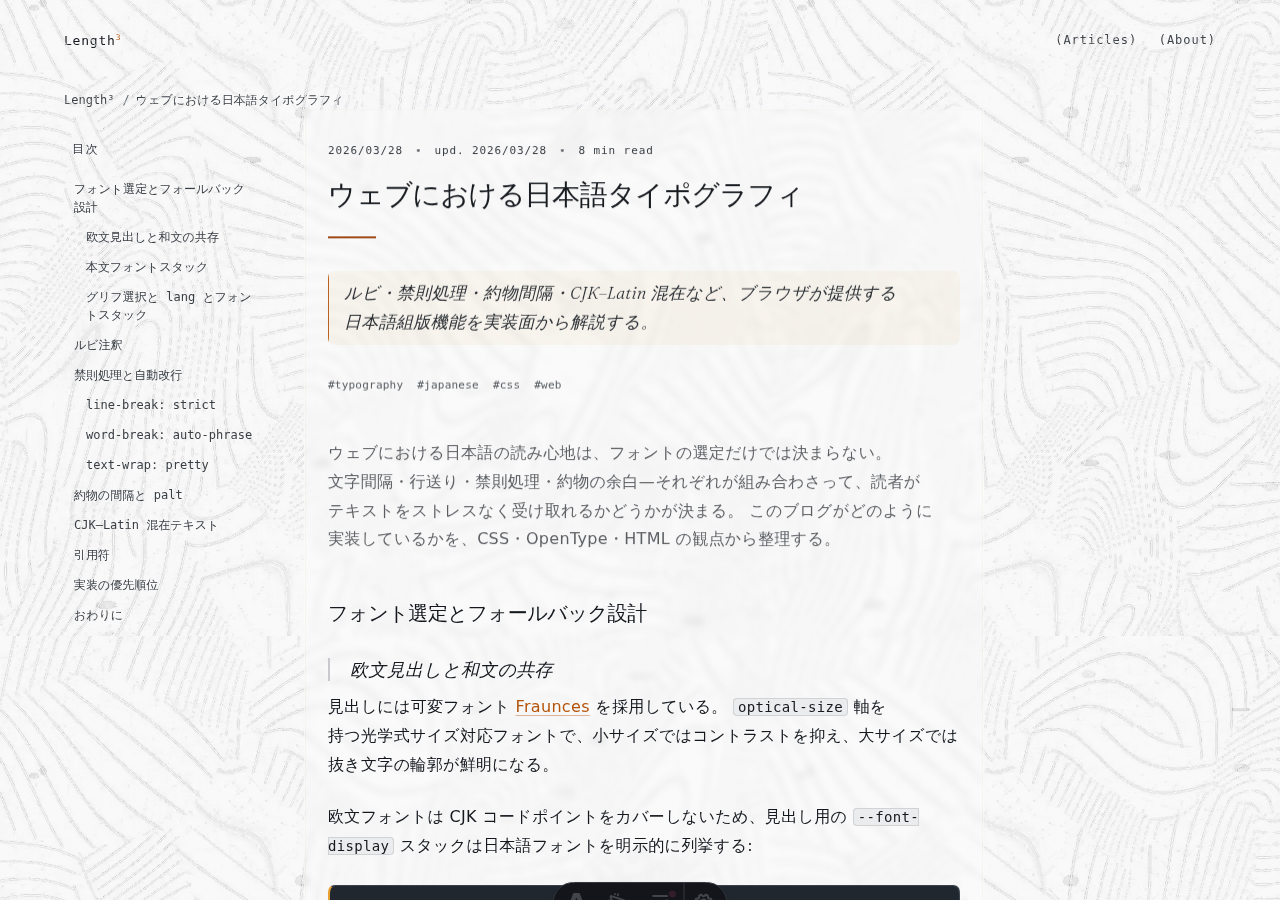
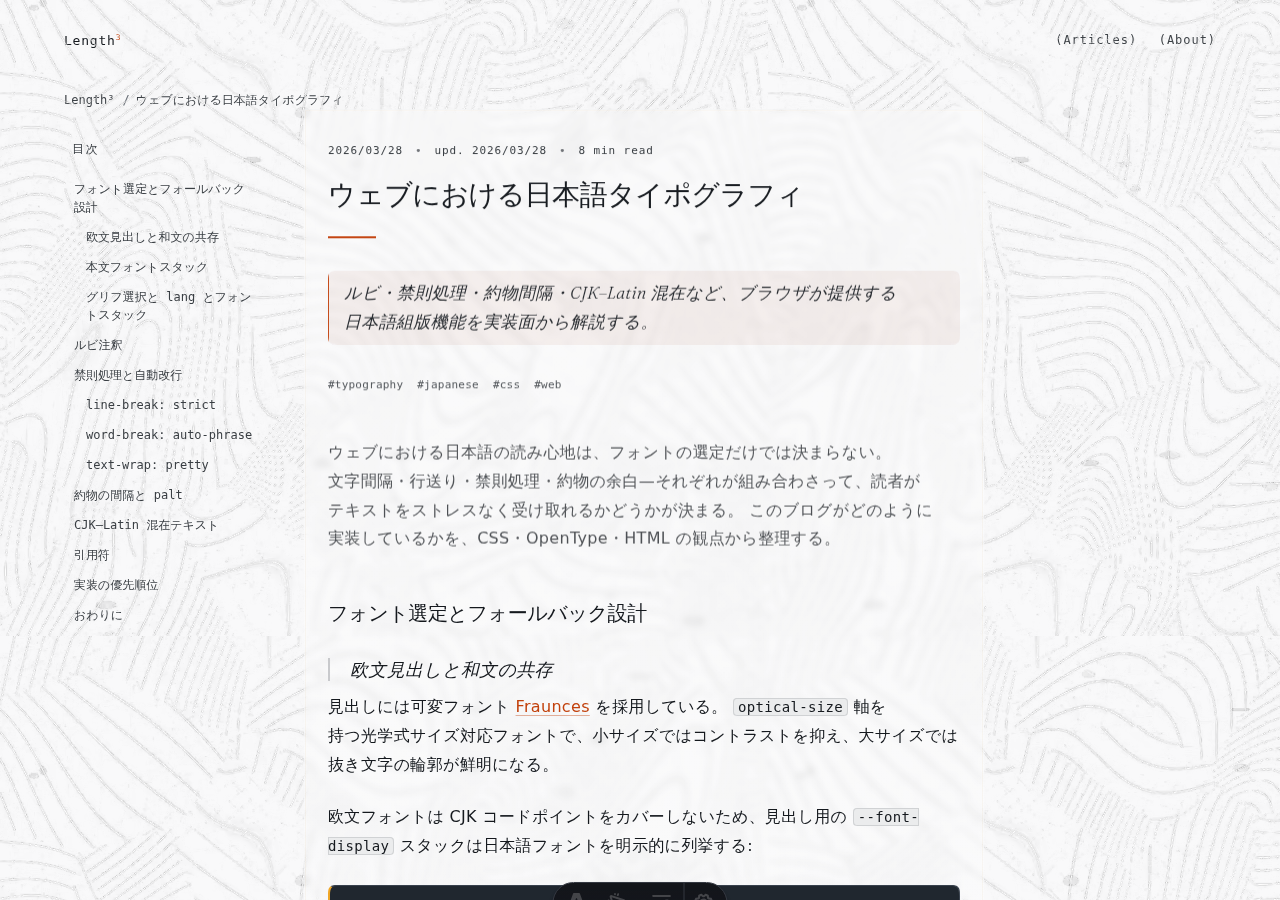
Take the cool below naming, and put the crispness in the amber
Two more rounds of "still too cool" moved the target: the tint should not be
identifiable as blue at all. Red-to-blue is 1 point on BG (#f9f9fa) and 3 on
BG-2 (#f0f1f3). The page reads as white; beside the warm paper it replaced,
all you can say is that the other one is warmer.

The background was never the whole of it. Rules, borders, panel edges, and
the secondary type come from the same family, and the article list draws one
rule per entry — ten hairlines at the type's saturation are an area of
colour, not a line. Rule, the surface strokes, Ink-2 and Ink-3 all lose
saturation at unchanged lightness, so the page cools as a whole instead of
leaving blue lines on white paper.

With the colour out of the ground, the accent had to answer for it. A
background losing saturation takes the accent's apparent strength with it —
against a neutral page an accent reads as a slightly darker patch rather
than a point of colour. The amber goes to full saturation and 28° → 22°,
nearly opposite the 212° everything else is drawn in. Red-weighted luminance
is lower at the same chroma, so the crisper colour is also the stronger one:
4.9:1 on BG, 4.6:1 on BG-2. That last number closes a gap this palette has
carried since the accent was written down — amber-text on BG-2 measured
4.3:1 and failed AA in table headers and selected search rows. It clears by
hue, not by darkening.

And the warm collapses to one value on paper. There were three — text,
[…]

Changed region(s): [[0.25, 0.4978, 0.6875, 0.6222], [0.6875, 0.5289, 0.7188, 0.56]]

diff --git a/src/styles/tokens.css b/src/styles/tokens.css
@@ -1,11 +1,27 @@
 /* ─── Design Tokens ─────────────────────────────────────────── */
 :root {
   /* Colors — original palette with mineral accents */
-  --amber: #d4820a;
-  --amber-deep: #9a4312;
-  --amber-text: #b45309;
-  --amber-lt: #e8a030;
-  --amber-tint: rgba(212, 130, 10, 0.06); /* amber @ 6% — lead bg */
+  /* 地から色を抜いたぶん、暖色は上げる。地が寒色へ寄るほど琥珀の相対的な
+     強さは落ちる（背景の彩度が下がると、その上の色は「浮いた点」ではなく
+     「少し濃い所」に見える）。彩度を上限まで上げ、色相を 28° → 22° と
+     赤寄りにした。地の 212° に対してほぼ真向かいで、同じ明度でも遠くに
+     見える。輝度は赤寄りのほうが低いので、コントラストまで上がる:
+     --amber-text は紙で 4.9:1、--bg-2 の上でも 4.6:1。以前の #b45309 は
+     --bg-2 の上で 4.3:1 しかなく、表ヘッダと選択行のリンクだけが AA を
+     落としていた。それがここで解ける。 */
+  /* 紙の上に置く暖色はこの 1 色。以前は「文字用の #b45309」「罫と目盛り用の
+     深い #9a4312」「印用の明るい #d4820a」と 3 段あったが、地の彩度を落とした
+     いま、同じ役の色が 3 つあると濃淡がばらついて見えるだけだった。虫眼鏡と
+     日付と罫が同じ 1 色で揃う。 */
+  --amber-text: #c2410c;
+  /* 灯った状態のためだけの明るいほう。現状の使い道はホバー 1 箇所。 */
+  --amber: #ea580c;
+  /* 暗い面（コード）の上に置く暖色。紙の上の琥珀は面に沈むので別値が要る。 */
+  --amber-lt: #f0a626;
+  /* リードの地。琥珀をそのまま 6% で敷くと、彩度を上げたあとでは薄桃に
+     見える。面に敷くぶんだけは深く暗い側の値を使い、色ではなく温度だけを
+     残す。 */
+  --amber-tint: rgba(154, 52, 18, 0.06);
 
   /* ─ 温度 ─────────────────────────────────────────────────────
      地（--bg とテクスチャ）と琥珀だけが暖色。その上に描かれるものは
@@ -62,7 +78,7 @@
   /* Surfaces & shadows */
   --overlay-bg: rgba(21, 25, 30, 0.6); /* --ink @ 60% */
   --shadow-card: 0 0.5rem 2rem rgba(0, 0, 0, 0.15);
-  --focus-halo: rgba(180, 83, 9, 0.14);
+  --focus-halo: rgba(194, 65, 12, 0.16);
 
   /* Typography — font-size scale */
   --font-ui-xs: 0.6875rem;   /* 11px — smallest UI text: shortcuts and compact UI labels */

diff --git a/src/styles/typography.css b/src/styles/typography.css
@@ -103,9 +103,9 @@
 }
 
 .prose a {
-  color: var(--amber-text); /* SC 1.4.3: 4.73:1 on --bg */
+  color: var(--amber-text); /* SC 1.4.3: 4.92:1 on --bg */
   text-decoration: underline;
-  text-decoration-color: rgba(180, 83, 9, 0.4); /* amber-text @ 40% — 常時視認可能 */
+  text-decoration-color: rgba(194, 65, 12, 0.4); /* amber-text @ 40% — 常時視認可能 */
   text-decoration-thickness: 0.0625rem;
   text-underline-offset: 0.2em;
   transition: color var(--transition-fast), text-decoration-color var(--transition-fast);
@@ -301,7 +301,7 @@
 }
 
 .prose ul > li::marker {
-  color: var(--amber-text); /* SC 1.4.11: UI marker needs 3:1; --amber-text gives 4.73:1 */
+  color: var(--amber-text); /* SC 1.4.11: UI marker needs 3:1; --amber-text gives 4.92:1 */
 }
 
 /* ─── Horizontal rule ────────────────────────────────────────── */
@@ -311,7 +311,7 @@
 .prose hr {
   border: none;
   height: 0.125rem;
-  background: var(--amber-deep);
+  background: var(--amber-text);
   width: 3rem;
   margin: 1.5rem 0 2rem;
 }
@@ -353,7 +353,7 @@ ruby {
 rt {
   font-family: var(--font-ruby);
   font-size: 0.65em;               /* raised from 0.52em: ~10px at 16px base, improves legibility */
-  color: var(--amber-text);        /* SC 1.4.3: 4.73:1 on --bg */
+  color: var(--amber-text);        /* SC 1.4.3: 4.92:1 on --bg */
 }
 
 /* Lines containing ruby get extra line-height to prevent collision — spec §2 */

diff --git a/src/config/code-theme.ts b/src/config/code-theme.ts
@@ -19,7 +19,7 @@ const surface = '#20272f'; // 炭 — --code-bg
 const fg = '#d9d4cb'; // 地の文字 — --code-fg
 const dim = '#878f99'; // コメント — --code-dim
 const operator = '#959da8'; // 記号・区切り
-const amber = '#e8a030'; // キーワード・タグ (--amber-lt)
+const amber = '#f0a626'; // キーワード・タグ (--amber-lt)
 const sage = '#a3b18a'; // 文字列
 const terracotta = '#cf8a72'; // 数値・定数
 const parchment = '#e6d3a3'; // 関数名

diff --git a/src/styles/components/article-actions.css b/src/styles/components/article-actions.css
@@ -5,7 +5,7 @@
   left: 0;
   height: 0.125rem;
   width: var(--progress, 0%);
-  background: var(--amber-deep);
+  background: var(--amber-text);
   z-index: var(--z-elevated);
   transition: width 150ms linear;
   pointer-events: none;

diff --git a/src/styles/layout.css b/src/styles/layout.css
@@ -211,7 +211,7 @@
 .amber-rule {
   border: none;
   height: 0.125rem;
-  background: var(--amber-deep);
+  background: var(--amber-text);
   width: 3rem;
 }
 

diff --git a/src/styles/components/search.css b/src/styles/components/search.css
@@ -476,7 +476,7 @@
 
 mark {
   background: none;
-  color: var(--amber-deep);
+  color: var(--amber-text);
   font-style: italic;
 }
 

diff --git a/docs/specs/ui-spec.md b/docs/specs/ui-spec.md
@@ -144,8 +144,12 @@ Color carries information. It is never applied for warmth, mood, or atmosphere. 
 
 ### Token Definitions
 
-**Amber** `#d4820a`
-The single accent color. Used exclusively for interactive signals and semantic markers. Contrast against BG is **2.8:1** — a marker, not a text color. Anything amber that carries words uses **Amber-text** `#b45309` (**4.7:1**) instead. Earlier revisions of this document credited `#d4820a` with 4.8:1 and AA; that number was wrong, and the implementation has always used the darker variant for type.
+**Amber** `#ea580c`
+The single accent color. Used exclusively for interactive signals and semantic markers. Contrast against BG is **3.4:1** — a marker, not a text color. Anything amber that carries words uses **Amber-text** `#c2410c` (**4.9:1**) instead. Earlier revisions of this document credited the accent with 4.8:1 and AA; that number was wrong, and the implementation has always used the darker variant for type.
+
+The accent was raised when the page was cooled. A background losing saturation takes the accent's apparent strength with it — against a neutral page an accent stops reading as a point of colour and starts reading as a slightly darker patch — so the amber goes to full saturation and its hue moves from 28° to **22°**, which sits almost exactly opposite the 212° everything else is drawn in. Red-weighted luminance is lower at the same chroma, so the crisper colour is also the higher-contrast one: Amber-text clears **4.9:1** on BG and **4.6:1** on BG-2, which is the first time the accent has cleared AA on both surfaces.
+
+**One warm value on paper.** Amber-text is now every warm thing drawn on the page: type, the decorative rules, the reading-progress bar, search-match marks, the search lens. There used to be a third token — a deep `#9a4312` for rules and the progress bar — and on warm paper the difference read as considered. On a page with the colour taken out of it, three warm values at three lightnesses read as three attempts at the same colour. Two remain, and neither overlaps: **Amber** `#ea580c` is the lit state (hover), **Amber-lt** `#f0a626` exists because the code slab is dark and paper amber sinks into it.
 
 _Where it appears:_ TOC active state (border + text). Hover text color on interactive elements. Ruby `<rt>` annotations. Keyword tokens in code. 1px left-border on lead paragraphs.
 
@@ -199,13 +203,13 @@ Measured, not estimated. Ratios are WCAG 2.x relative luminance, rounded to one 
 | Ink-2 on BG      | `#393e43` / `#f9f9fa` | 10.3:1 | AAA           |
 | Ink-3 on BG      | `#656b73` / `#f9f9fa` | 5.1:1  | AA            |
 | Ink-3 on BG-2    | `#656b73` / `#f0f1f3` | 4.8:1  | AA            |
-| Amber-text on BG | `#b45309` / `#f9f9fa` | 4.8:1  | AA            |
-| Amber on BG      | `#d4820a` / `#f9f9fa` | 2.9:1  | markers only  |
+| Amber-text on BG | `#c2410c` / `#f9f9fa` | 4.9:1  | AA            |
+| Amber on BG      | `#ea580c` / `#f9f9fa` | 3.4:1  | markers only  |
 | Code fg on code  | `#d9d4cb` / `#20272f` | 10.2:1 | AAA           |
 | Code dim on code | `#878f99` / `#20272f` | 4.6:1  | AA            |
 | Rule on BG       | `#c8c9cc` / `#f9f9fa` | 1.6:1  | non-text, 1px |
 
-Amber-text on BG-2 measures **4.4:1** and does not clear AA. Links inside table headers and selected search rows are the only place that pairing occurs; if either surface grows, the pairing needs a darker amber rather than a lighter panel.
+Amber-text on BG-2 measures **4.6:1** and clears AA — the pairing that appears in table headers and selected search rows, and the one this palette had been failing since the accent was first written down. It clears by hue, not by darkening: the same lightness moved 6° toward red.
 
 ---
 
@@ -308,7 +312,7 @@ Located in the left column. `position: sticky; top: 32px`.
 
 **Inline code:** `--code-inline-bg` (`#ebeced`) background, `border-radius: var(--radius-sm)`, `padding: 1px 5px`, JetBrains Mono 0.88em, Ink. No border — inline code sits inside a running line, and a drawn box on every occurrence turns a Japanese paragraph into a string of rectangles. The tint alone marks it, and a 1px inset shadow gives the tint an edge without a stroke.
 
-**Block code:** `--code-bg` (`#20272f`) background — a dark gray carrying blue, not black. `border: 1px solid --code-edge`, `border-left: 2px solid #e8a030` (amber-lt), `border-radius: var(--radius-lg)`, `padding: 20px`. JetBrains Mono 0.8125rem, `--code-fg` (`#d9d4cb`) — kept warm so the text sits off the cool ground — `line-height: 1.65`.
+**Block code:** `--code-bg` (`#20272f`) background — a dark gray carrying blue, not black. `border: 1px solid --code-edge`, `border-left: 2px solid #f0a626` (amber-lt), `border-radius: var(--radius-lg)`, `padding: 20px`. JetBrains Mono 0.8125rem, `--code-fg` (`#d9d4cb`) — kept warm so the text sits off the cool ground — `line-height: 1.65`.
 
 **Block code is a dark surface; inline code is not.** The two are different objects. A block is a figure the reader stops on — set as a slab, it separates from the prose the way a plate separates from body text in print, and the sharp 1px edge is what makes it read as an object rather than a wash. Inline code is not an object; it belongs to the sentence, so it stays light. Earlier revisions of this document prohibited dark blocks on the grounds that they rupture reading flow; in practice the near-invisible BG-2 wash (a 1.06:1 step from the page) failed to mark the block at all.
 
